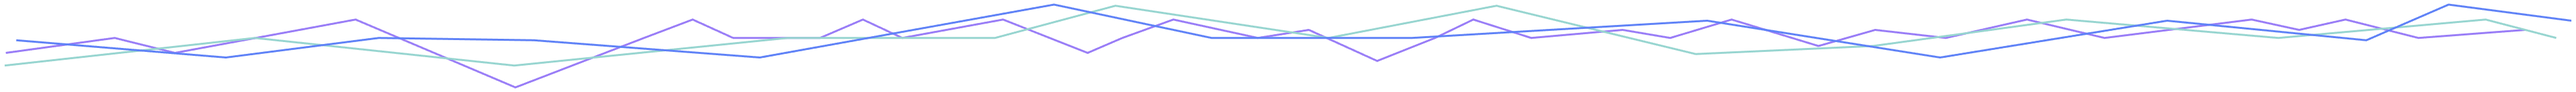
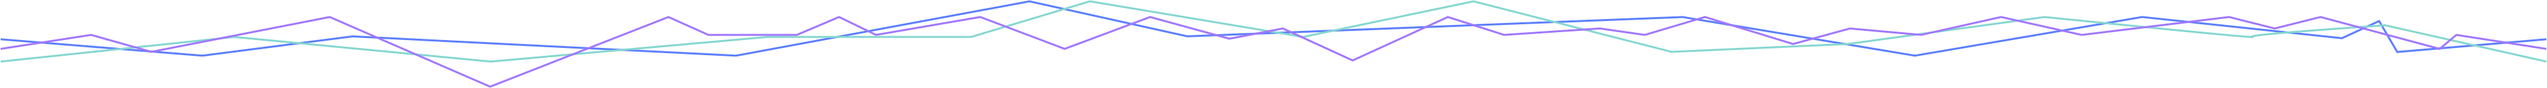
change layout

Changed region(s): [[0.248, 0.0, 1.0, 0.7164], [0.0, 0.1791, 0.3101, 0.9851], [0.6201, 0.4776, 0.6511, 0.5373]]

diff --git a/dest/css/app.min.css b/dest/css/app.min.css
@@ -1,1 +1,1 @@
-/*! normalize.css v7.0.0 | MIT License | github.com/necolas/normalize.css */@import url("https://fonts.googleapis.com/css?family=Rubik:300,400&display=swap");html{line-height:1.15;-ms-text-size-adjust:100%;-webkit-text-size-adjust:100%}body{margin:0}article,aside,footer,header,nav,section{display:block}h1{font-size:2em;margin:0.67em 0}figcaption,figure,main{display:block}figure{margin:1em 40px}hr{-webkit-box-sizing:content-box;box-sizing:content-box;height:0;overflow:visible}pre{font-family:monospace, monospace;font-size:1em}a{background-color:transparent;-webkit-text-decoration-skip:objects}abbr[title]{border-bottom:none;text-decoration:underline;-webkit-text-decoration:underline dotted;text-decoration:underline dotted}b,strong{font-weight:inherit}b,strong{font-weight:bolder}code,kbd,samp{font-family:monospace, monospace;font-size:1em}dfn{font-style:italic}mark{background-color:#ff0;color:#000}small{font-size:80%}sub,sup{font-size:75%;line-height:0;position:relative;vertical-align:baseline}sub{bottom:-0.25em}sup{top:-0.5em}audio,video{display:inline-block}audio:not([controls]){display:none;height:0}img{border-style:none}svg:not(:root){overflow:hidden}button,input,optgroup,select,textarea{font-family:sans-serif;font-size:100%;line-height:1.15;margin:0}button,input{overflow:visible}button,select{text-transform:none}button,html [type="button"],[type="reset"],[type="submit"]{-webkit-appearance:button}button::-moz-focus-inner,[type='button']::-moz-focus-inner,[type='reset']::-moz-focus-inner,[type='submit']::-moz-focus-inner{border-style:none;padding:0}button:-moz-focusring,[type='button']:-moz-focusring,[type='reset']:-moz-focusring,[type='submit']:-moz-focusring{outline:1px dotted ButtonText}fieldset{padding:0.35em 0.75em 0.625em}legend{-webkit-box-sizing:border-box;box-sizing:border-box;color:inherit;display:table;max-width:100%;padding:0;white-space:normal}progress{display:inline-block;vertical-align:baseline}textarea{overflow:auto}[type='checkbox'],[type='radio']{-webkit-box-sizing:border-box;box-sizing:border-box;padding:0}[type='number']::-webkit-inner-spin-button,[type='number']::-webkit-outer-spin-button{height:auto}[type='search']{-webkit-appearance:textfield;outline-offset:-2px}[type='search']::-webkit-search-cancel-button,[type='search']::-webkit-search-decoration{-webkit-appearance:none}::-webkit-file-upload-button{-webkit-appearance:button;font:inherit}details,menu{display:block}summary{display:list-item}canvas{display:inline-block}template{display:none}[hidden]{display:none}*,*::before,*::after{-webkit-box-sizing:border-box;box-sizing:border-box}html{font-family:sans-serif;line-height:1.15;-webkit-text-size-adjust:100%;-ms-text-size-adjust:100%;-ms-overflow-style:scrollbar;-webkit-tap-highlight-color:transparent;-webkit-font-smoothing:antialiased;-moz-osx-font-smoothing:grayscale}body{font-size:16px;color:#000;background-color:#fff;-webkit-overflow-scrolling:touch}a{background-color:transparent;-webkit-text-decoration-skip:objects;text-decoration:none;color:#000}a,a:hover,a:focus,a:active{outline:none}a,area,button,[role="button"],input:not([type="range"]),label,select,summary,textarea{-ms-touch-action:manipulation;touch-action:manipulation}img{vertical-align:middle;border-style:none}a,button,html [type="button"],[type="reset"],[type="submit"],[role="button"],[role="link"]{-moz-appearance:none;appearance:none;-webkit-appearance:none;-webkit-box-shadow:none;box-shadow:none;outline:none !important}ul{list-style:none;margin:0;padding:0}h1,h2{margin:0;padding:0;font-weight:400}body{font-family:"Rubik", sans-serif;font-weight:300}.isIos .is-main{min-height:auto}@media screen and (device-aspect-ratio: 40 / 71){.isIos .is-main{height:calc(100vh - 70px)}}@media screen and (device-aspect-ratio: 375 / 667){.isIos .is-main{height:calc(100vh - 75px)}}@media only screen and (min-device-width: 414px) and (max-device-width: 736px) and (-webkit-min-device-pixel-ratio: 3) and (-webkit-device-pixel-ratio: 3){.isIos .is-main{height:calc(100vh - 72px)}}@media only screen and (device-width: 375px) and (device-height: 812px) and (-webkit-device-pixel-ratio: 3){.isIos .is-main{height:calc(100vh - 113px)}}@media only screen and (min-device-width: 768px) and (max-device-width: 1024px) and (orientation: portrait){.isIos .is-main{height:calc(100vh - 50px)}}@media only screen and (min-device-width: 768px) and (max-device-width: 1024px) and (orientation: landscape){.isIos .is-main{height:auto}}:root{--grey-base: #000;--grey-middle: #bbb;--grey-light: #c1c1c1;--h1-font-size: 60px;--h1-line-height: 71px;--h2-font-size: 18px;--h2-line-height: 21px;--success-font-size: 60px;--success-line-height: 1.2;--bottom-gap: 10vw}@media screen and (min-width: 767px){:root{--h1-font-size: 10vw;--h1-line-height: 1.2}}@media screen and (min-width: 1170px){:root{--h1-font-size: 11vw}}@media screen and (min-width: 1400px){:root{--h1-font-size: 9vw}}@media screen and (min-width: 1900px){:root{--h1-font-size: 8vw}}@media screen and (min-width: 767px){:root{--h2-font-size: 3vw;--h2-line-height: 1.2}}@media screen and (min-width: 1170px){:root{--h2-font-size: 2vw}}@media screen and (min-width: 1400px){:root{--h2-font-size: 2.2vw}}@media screen and (min-width: 1900px){:root{--h2-font-size: 2vw}}@media screen and (min-width: 767px){:root{--success-font-size: 90px}}@media screen and (min-width: 1170px){:root{--success-font-size: 7vw}}@media screen and (max-width: 1169px){body{overflow:hidden;position:fixed;top:0;left:0;right:0;width:100%;height:100%}}.is-main{position:relative;display:-webkit-box;display:-ms-flexbox;display:flex;height:100vh;-webkit-box-align:center;-ms-flex-align:center;align-items:center;-webkit-box-pack:center;-ms-flex-pack:center;justify-content:center}.is-content{display:-webkit-box;display:-ms-flexbox;display:flex;-webkit-box-orient:vertical;-webkit-box-direction:normal;-ms-flex-direction:column;flex-direction:column;text-align:center;width:100%;-webkit-transition:opacity 0.5s ease-in-out;transition:opacity 0.5s ease-in-out}@media screen and (min-width: 1170px){.is-content{width:auto;margin-top:-2vw}}@media screen and (min-width: 1900px){.is-content{margin-top:-3vw}}.is-content.is-hidden{opacity:0}h1{padding-bottom:25px;padding-top:25px;font-size:var(--h1-font-size);line-height:var(--h1-line-height)}h1 span{color:var(--grey-light)}@media screen and (min-width: 1170px){h1{padding-top:0;padding-bottom:0}}h2{padding-bottom:30px;color:var(--grey-middle);font-size:var(--h2-font-size);line-height:var(--h2-line-height)}@media screen and (min-width: 1170px){h2{padding-bottom:0}}.is-form{margin:0 auto}@media screen and (min-width: 1170px){.is-form{margin-top:40px}}.is-form.has-error .is-input{border-color:red;-webkit-box-shadow:none;box-shadow:none}.is-input{-webkit-appearance:none;-moz-appearance:none;appearance:none;outline:none;background-color:#fff;background-image:none;display:block;width:190px;height:36px;padding:10px;border:1px solid #b3b3b3;-webkit-box-shadow:0 2px 4px rgba(0,0,0,0.5);box-shadow:0 2px 4px rgba(0,0,0,0.5);border-radius:8px;-webkit-transition:0.2s ease;transition:0.2s ease;font-family:"Rubik";font-size:16px;line-height:18px}@media screen and (min-width: 767px){.is-input{width:265px;height:43px;font-size:18px;line-height:20px;border-radius:10px}}@media screen and (min-width: 1170px){.is-input{padding:14px;width:20vw;height:3.4vw;border-radius:1vw;font-size:1.5vw}}@media screen and (min-width: 1400px){.is-input{padding:20px;width:18vw;height:3.2vw;font-size:1.4vw;border-radius:16px}}@media screen and (min-width: 1900px){.is-input{width:16vw;height:3vw;font-size:1.25vw}}.is-input,.is-input:focus,.is-input:hover{outline:none}.img-opal{display:block;-o-object-fit:contain;object-fit:contain;-o-object-position:center;object-position:center;position:absolute;top:-50px;left:-80px;width:73vw;height:73vw}@media screen and (device-aspect-ratio: 40 / 71){.img-opal{width:70vw;height:70vw}}@media screen and (device-aspect-ratio: 375 / 667){.img-opal{width:75vw;height:75vw}}@media only screen and (min-device-width: 414px) and (max-device-width: 736px) and (-webkit-min-device-pixel-ratio: 3) and (-webkit-device-pixel-ratio: 3){.img-opal{width:70vw;height:70vw}}@media screen and (min-width: 767px){.img-opal{width:48vw;height:48vw}}@media only screen and (min-device-width: 768px) and (max-device-width: 1024px) and (orientation: landscape){.img-opal{width:33vw;height:33vw}}@media screen and (max-width: 1169px){.img-opal{max-width:390px;max-height:390px}}@media screen and (min-width: 1170px){.img-opal{width:33vw;height:33vw;top:6vw;left:-13vw}}.img-lines{position:absolute;left:0;right:0;bottom:0px;display:block;max-width:100%;height:50px;-o-object-fit:cover;object-fit:cover}@media screen and (min-width: 370px){.img-lines{bottom:20px}}@media only screen and (min-device-width: 768px) and (max-device-width: 1024px) and (orientation: landscape){.img-lines{bottom:40px}}@media screen and (min-width: 1170px){.img-lines{bottom:50px;height:auto;-o-object-fit:contain;object-fit:contain}}.img-lines.is-mobile-chrome{bottom:calc(var(--vh, 1vh) * 20)}.was-sent p{display:none}.was-sent,.is-content{position:relative}.was-sent,#typed{margin:0;font-size:var(--success-font-size);line-height:var(--success-line-height);color:var(--grey-light);width:295px;height:30vh;margin:0 auto;text-align:center}@media screen and (device-aspect-ratio: 375 / 667){.was-sent,#typed{height:23vh}}@media only screen and (min-device-width: 414px) and (max-device-width: 736px) and (-webkit-min-device-pixel-ratio: 3) and (-webkit-device-pixel-ratio: 3){.was-sent,#typed{height:17vh}}@media only screen and (device-width: 375px) and (device-height: 812px) and (-webkit-device-pixel-ratio: 3){.was-sent,#typed{height:16vh}}@media screen and (min-width: 767px){.was-sent,#typed{width:440px;height:300px}}@media screen and (max-width: 1169px){.was-sent,#typed{display:none}}@media screen and (min-width: 1170px){.was-sent,#typed{width:40vw;height:25vw;margin:0;text-align:left}}.typed-cursor{display:none}.was-sent,#typed{display:none}
+/*! normalize.css v7.0.0 | MIT License | github.com/necolas/normalize.css */@import url("https://fonts.googleapis.com/css?family=Rubik:300,400&display=swap");html{line-height:1.15;-ms-text-size-adjust:100%;-webkit-text-size-adjust:100%}body{margin:0}article,aside,footer,header,nav,section{display:block}h1{font-size:2em;margin:0.67em 0}figcaption,figure,main{display:block}figure{margin:1em 40px}hr{-webkit-box-sizing:content-box;box-sizing:content-box;height:0;overflow:visible}pre{font-family:monospace, monospace;font-size:1em}a{background-color:transparent;-webkit-text-decoration-skip:objects}abbr[title]{border-bottom:none;text-decoration:underline;-webkit-text-decoration:underline dotted;text-decoration:underline dotted}b,strong{font-weight:inherit}b,strong{font-weight:bolder}code,kbd,samp{font-family:monospace, monospace;font-size:1em}dfn{font-style:italic}mark{background-color:#ff0;color:#000}small{font-size:80%}sub,sup{font-size:75%;line-height:0;position:relative;vertical-align:baseline}sub{bottom:-0.25em}sup{top:-0.5em}audio,video{display:inline-block}audio:not([controls]){display:none;height:0}img{border-style:none}svg:not(:root){overflow:hidden}button,input,optgroup,select,textarea{font-family:sans-serif;font-size:100%;line-height:1.15;margin:0}button,input{overflow:visible}button,select{text-transform:none}button,html [type="button"],[type="reset"],[type="submit"]{-webkit-appearance:button}button::-moz-focus-inner,[type='button']::-moz-focus-inner,[type='reset']::-moz-focus-inner,[type='submit']::-moz-focus-inner{border-style:none;padding:0}button:-moz-focusring,[type='button']:-moz-focusring,[type='reset']:-moz-focusring,[type='submit']:-moz-focusring{outline:1px dotted ButtonText}fieldset{padding:0.35em 0.75em 0.625em}legend{-webkit-box-sizing:border-box;box-sizing:border-box;color:inherit;display:table;max-width:100%;padding:0;white-space:normal}progress{display:inline-block;vertical-align:baseline}textarea{overflow:auto}[type='checkbox'],[type='radio']{-webkit-box-sizing:border-box;box-sizing:border-box;padding:0}[type='number']::-webkit-inner-spin-button,[type='number']::-webkit-outer-spin-button{height:auto}[type='search']{-webkit-appearance:textfield;outline-offset:-2px}[type='search']::-webkit-search-cancel-button,[type='search']::-webkit-search-decoration{-webkit-appearance:none}::-webkit-file-upload-button{-webkit-appearance:button;font:inherit}details,menu{display:block}summary{display:list-item}canvas{display:inline-block}template{display:none}[hidden]{display:none}*,*::before,*::after{-webkit-box-sizing:border-box;box-sizing:border-box}html{font-family:sans-serif;line-height:1.15;-webkit-text-size-adjust:100%;-ms-text-size-adjust:100%;-ms-overflow-style:scrollbar;-webkit-tap-highlight-color:transparent;-webkit-font-smoothing:antialiased;-moz-osx-font-smoothing:grayscale}body{font-size:16px;color:#000;background-color:#fff;-webkit-overflow-scrolling:touch}a{background-color:transparent;-webkit-text-decoration-skip:objects;text-decoration:none;color:#000}a,a:hover,a:focus,a:active{outline:none}a,area,button,[role="button"],input:not([type="range"]),label,select,summary,textarea{-ms-touch-action:manipulation;touch-action:manipulation}img{vertical-align:middle;border-style:none}a,button,html [type="button"],[type="reset"],[type="submit"],[role="button"],[role="link"]{-moz-appearance:none;appearance:none;-webkit-appearance:none;-webkit-box-shadow:none;box-shadow:none;outline:none !important}ul{list-style:none;margin:0;padding:0}h1,h2{margin:0;padding:0;font-weight:400}body{font-family:"Rubik", sans-serif;font-weight:300}.isIos .is-main{min-height:auto}@media screen and (device-aspect-ratio: 40 / 71){.isIos .is-main{height:calc(100vh - 70px)}}@media screen and (device-aspect-ratio: 375 / 667){.isIos .is-main{height:calc(100vh - 75px)}}@media only screen and (min-device-width: 414px) and (max-device-width: 736px) and (-webkit-min-device-pixel-ratio: 3) and (-webkit-device-pixel-ratio: 3){.isIos .is-main{height:calc(100vh - 72px)}}@media only screen and (device-width: 375px) and (device-height: 812px) and (-webkit-device-pixel-ratio: 3){.isIos .is-main{height:calc(100vh - 113px)}}@media only screen and (min-device-width: 768px) and (max-device-width: 1024px) and (orientation: portrait){.isIos .is-main{height:calc(100vh - 50px)}}:root{--grey-base: #000;--grey-middle: #bbb;--grey-light: #c1c1c1;--h1-font-size: 60px;--h1-line-height: 71px;--h2-font-size: 18px;--h2-line-height: 21px;--success-font-size: 60px;--success-line-height: 1.2;--bottom-gap: 10vw}@media screen and (min-width: 767px){:root{--h1-font-size: 10vw;--h1-line-height: 1.2}}@media screen and (min-width: 1170px){:root{--h1-font-size: 11vw}}@media screen and (min-width: 1400px){:root{--h1-font-size: 9vw}}@media screen and (min-width: 1900px){:root{--h1-font-size: 8vw}}@media screen and (min-width: 767px){:root{--h2-font-size: 3vw;--h2-line-height: 1.2}}@media screen and (min-width: 1170px){:root{--h2-font-size: 2vw}}@media screen and (min-width: 1400px){:root{--h2-font-size: 2.2vw}}@media screen and (min-width: 1900px){:root{--h2-font-size: 2vw}}@media screen and (min-width: 767px){:root{--success-font-size: 90px}}@media screen and (min-width: 1170px){:root{--success-font-size: 7vw}}@media screen and (max-width: 1169px){body{overflow:hidden;position:fixed;top:0;left:0;right:0;width:100%;height:100%}}@media screen and (min-width: 500px) and (max-width: 1024px) and (orientation: landscape){body{position:static;overflow:auto}}.is-main{position:relative;display:-webkit-box;display:-ms-flexbox;display:flex;height:100vh;-webkit-box-align:center;-ms-flex-align:center;align-items:center;-webkit-box-pack:center;-ms-flex-pack:center;justify-content:center}@media screen and (min-width: 500px) and (max-width: 1024px) and (orientation: landscape){.is-main{height:600px}}.is-content{display:-webkit-box;display:-ms-flexbox;display:flex;-webkit-box-orient:vertical;-webkit-box-direction:normal;-ms-flex-direction:column;flex-direction:column;text-align:center;width:100%;-webkit-transition:opacity 0.5s ease-in-out;transition:opacity 0.5s ease-in-out}@media screen and (min-width: 1170px){.is-content{width:auto;margin-top:-2vw}}@media screen and (min-width: 1900px){.is-content{margin-top:-3vw}}.is-content.is-hidden{opacity:0}h1{padding-bottom:25px;padding-top:25px;font-size:var(--h1-font-size);line-height:var(--h1-line-height)}h1 span{color:var(--grey-light)}@media screen and (min-width: 1170px){h1{padding-top:0;padding-bottom:0}}h2{padding-bottom:30px;color:var(--grey-middle);font-size:var(--h2-font-size);line-height:var(--h2-line-height)}@media screen and (min-width: 1170px){h2{padding-bottom:0}}.is-form{margin:0 auto}@media screen and (min-width: 1170px){.is-form{margin-top:40px}}.is-form.has-error .is-input{border-color:red;-webkit-box-shadow:none;box-shadow:none}.is-input{-webkit-appearance:none;-moz-appearance:none;appearance:none;outline:none;background-color:#fff;background-image:none;display:block;width:190px;height:36px;padding:10px;border:1px solid #b3b3b3;-webkit-box-shadow:0 2px 4px rgba(0,0,0,0.5);box-shadow:0 2px 4px rgba(0,0,0,0.5);border-radius:8px;-webkit-transition:0.2s ease;transition:0.2s ease;font-family:'Rubik';font-size:16px;line-height:18px}@media screen and (min-width: 767px){.is-input{width:265px;height:43px;font-size:18px;line-height:20px;border-radius:10px}}@media screen and (min-width: 1170px){.is-input{padding:14px;width:20vw;height:3.4vw;border-radius:1vw;font-size:1.5vw}}@media screen and (min-width: 1400px){.is-input{padding:20px;width:18vw;height:3.2vw;font-size:1.4vw;border-radius:16px}}@media screen and (min-width: 1900px){.is-input{width:16vw;height:3vw;font-size:1.25vw}}.is-input,.is-input:focus,.is-input:hover{outline:none}.img-opal{display:block;-o-object-fit:contain;object-fit:contain;-o-object-position:center;object-position:center;position:absolute;top:-50px;left:-80px;width:60vw;height:60vw}@media screen and (min-width: 500px) and (max-width: 1024px) and (orientation: landscape){.img-opal{width:40vw;height:40vw}}@media only screen and (min-device-width: 414px) and (max-device-width: 736px) and (-webkit-min-device-pixel-ratio: 3) and (-webkit-device-pixel-ratio: 3){.img-opal{width:63vw;height:63vw}}@media only screen and (device-width: 375px) and (device-height: 812px) and (-webkit-device-pixel-ratio: 3){.img-opal{width:73vw;height:73vw}}@media screen and (min-width: 767px){.img-opal{width:48vw;height:48vw}}@media only screen and (min-device-width: 768px) and (max-device-width: 1024px) and (orientation: landscape){.img-opal{width:33vw;height:33vw}}@media screen and (max-width: 1169px){.img-opal{max-width:390px;max-height:390px}}@media screen and (min-width: 1170px){.img-opal{width:33vw;height:33vw;top:6vw;left:-13vw}}.img-lines{position:absolute;left:0;right:0;bottom:0px;width:100%;height:50px;background-size:cover;background-image:url("./../img/lines.png")}@media screen and (min-width: 370px){.img-lines{bottom:20px}}@media only screen and (min-device-width: 768px) and (max-device-width: 1024px) and (orientation: landscape){.img-lines{bottom:40px}}@media screen and (min-width: 1170px){.img-lines{bottom:50px;background-size:contain}}.img-lines.is-mobile-chrome{bottom:calc(var(--vh, 1vh) * 20)}.was-sent p{display:none}.was-sent,.is-content{position:relative}.was-sent,#typed{margin:0;font-size:var(--success-font-size);line-height:var(--success-line-height);color:var(--grey-light);width:295px;height:30vh;margin:0 auto;text-align:center}@media screen and (device-aspect-ratio: 375 / 667){.was-sent,#typed{height:23vh}}@media only screen and (min-device-width: 414px) and (max-device-width: 736px) and (-webkit-min-device-pixel-ratio: 3) and (-webkit-device-pixel-ratio: 3){.was-sent,#typed{height:17vh}}@media only screen and (device-width: 375px) and (device-height: 812px) and (-webkit-device-pixel-ratio: 3){.was-sent,#typed{height:16vh}}@media screen and (min-width: 767px){.was-sent,#typed{width:440px;height:300px}}@media screen and (max-width: 1169px){.was-sent,#typed{display:none}}@media screen and (min-width: 1170px){.was-sent,#typed{width:40vw;height:25vw;margin:0;text-align:left}}.typed-cursor{display:none}.was-sent,#typed{display:none}.img-lines{-webkit-animation:slide 15s linear infinite;animation:slide 15s linear infinite}@-webkit-keyframes slide{from{background-position:0px}to{background-position:2000px}}@keyframes slide{from{background-position:0px}to{background-position:2000px}}

diff --git a/src/scss/app.scss b/src/scss/app.scss
@@ -1,7 +1,7 @@
 // base
-@import "base/mixins";
-@import "base/index";
-@import "base/variables";
+@import 'base/mixins';
+@import 'base/index';
+@import 'base/variables';
 
 body {
   @include tablet-max {
@@ -13,6 +13,11 @@ body {
     width: 100%;
     height: 100%;
   }
+
+  @include mobileLandscape {
+    position: static;
+    overflow: auto;
+  }
 }
 
 .is-main {
@@ -21,6 +26,10 @@ body {
   height: 100vh;
   align-items: center;
   justify-content: center;
+
+  @include mobileLandscape {
+    height: 600px;
+  }
 }
 
 .is-content {
@@ -102,7 +111,7 @@ h2 {
   border-radius: 8px;
   transition: 0.2s ease;
 
-  font-family: "Rubik";
+  font-family: 'Rubik';
   font-size: 16px;
   line-height: 18px;
 
@@ -152,18 +161,27 @@ h2 {
   top: -50px;
   left: -80px;
 
-  @include size(73vw);
+  // @include size(73vw);
+  @include size(60vw);
 
-  @include iphone-sm {
-    @include size(70vw);
+  @include mobileLandscape {
+    @include size(40vw);
   }
 
-  @include iphone-md {
-    @include size(75vw);
-  }
+  // @include iphone-sm {
+  //   @include size(70vw);
+  // }
+
+  // @include iphone-md {
+  //   @include size(75vw);
+  // }
 
   @include iphone-lg {
-    @include size(70vw);
+    @include size(63vw);
+  }
+
+  @include iphone-x {
+    @include size(73vw);
   }
 
   @include tablet {
@@ -193,11 +211,10 @@ h2 {
   right: 0;
   bottom: 0px;
 
-  display: block;
-  max-width: 100%;
+  width: 100%;
   height: 50px;
-
-  object-fit: cover;
+  background-size: cover;
+  background-image: url('./../img/lines.png');
 
   @media screen and (min-width: 370px) {
     bottom: 20px;
@@ -209,8 +226,7 @@ h2 {
 
   @include laptop {
     bottom: 50px;
-    height: auto;
-    object-fit: contain;
+    background-size: contain;
   }
 }
 
@@ -275,4 +291,17 @@ h2 {
 .was-sent,
 #typed {
   display: none;
+}
+
+.img-lines {
+  animation: slide 15s linear infinite;
+}
+
+@keyframes slide {
+  from {
+    background-position: 0px;
+  }
+  to {
+    background-position: 2000px;
+  }
 }

diff --git a/src/scss/base/_mixins.scss b/src/scss/base/_mixins.scss
@@ -132,6 +132,12 @@ $desktop-2k: 2400px !default;
   }
 }
 
+@mixin mobileLandscape {
+  @media screen and (min-width: 500px) and (max-width: 1024px) and (orientation: landscape) {
+    @content;
+  }
+}
+
 @function contains($list, $values...) {
   @each $value in $values {
     @if type-of(index($list, $value)) != 'number' {

diff --git a/dest/index.html b/dest/index.html
@@ -54,7 +54,7 @@
         </p>
       </div>
       <span id="typed"></span>
-      <img src="./img/lines.png" alt="lines" class="img-lines" />
+      <div class="img-lines"></div>
     </main>
 
     <script src="https://cdn.jsdelivr.net/npm/typed.js@2.0.9"></script>

diff --git a/src/index.html b/src/index.html
@@ -54,7 +54,7 @@
         </p>
       </div>
       <span id="typed"></span>
-      <img src="./img/lines.png" alt="lines" class="img-lines" />
+      <div class="img-lines"></div>
     </main>
 
     <script src="https://cdn.jsdelivr.net/npm/typed.js@2.0.9"></script>

diff --git a/src/scss/base/_is-ios.scss b/src/scss/base/_is-ios.scss
@@ -23,9 +23,5 @@ $classname: 'is-main';
     @include ipad {
       height: calc(100vh - 50px);
     }
-
-    @include ipad-landscape {
-      height: auto;
-    }
   }
 }
